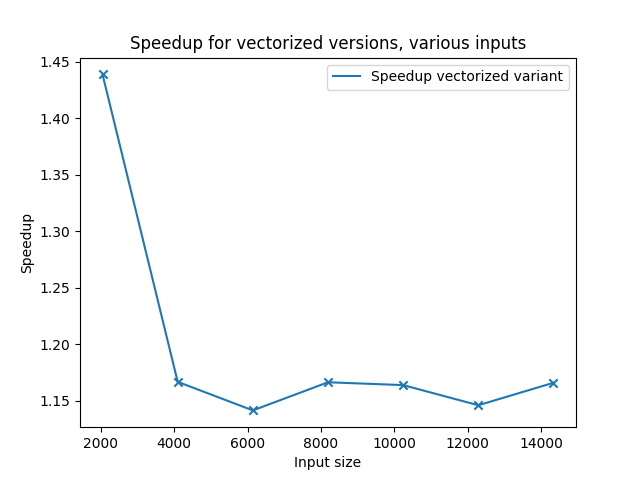
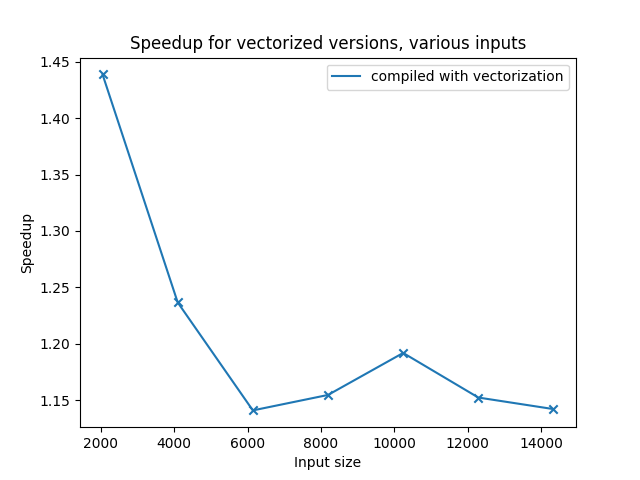
Added rest for week 7 task1

diff --git a/Assignment_07/task1/plot.py b/Assignment_07/task1/plot.py
@@ -6,4 +6,4 @@ spec.loader.exec_module(plot)
 OUT_FILE = 'output_task_1.dat'
 
 plot.plot_runtime_per_input_num(OUT_FILE, "Speedup for vectorized versions, various inputs", "speedup_task1", 2048, 2048, 'Reference', 'Speedup')
-plot.print_table(OUT_FILE)
+plot.print_table_for_var_inputs(OUT_FILE, 2048, 2048)

diff --git a/Assignment_07/assignment_07.md b/Assignment_07/assignment_07.md
@@ -1,2 +1,59 @@
 # Assignment 7
 by Tobias Hosp, Marcel Huber and Thomas Klotz
+
+## Task 1
+
+### Relevant Code
+
+```c
+void calculate_array(float* a, float* b, float* c, int size){
+    for(int run=0; run<REPETITIONS; ++run){
+        for(int i = 0; i<size; ++i){
+            a[i] += b[i] * c[i];
+        }
+    }
+}
+```
+
+Compiled with: 
+
+```makefile
+gcc -std=gnu11 -fopenmp -O1 -D TIMES -ftree-vectorize 
+```
+
+### Enable Vectorization
+
+To enable vectorization, the compiler flag ```-ftree-vectorize ``` was added to the usual gcc call.
+
+### Results
+
+![speedup_task1](task1/plots/speedup_task1.png)
+
+| Input size | compiled without vectorization | compiled with vectorization |
+| :--: | :--: | :--: |
+| 2048 | 2.4803 | 1.7238 |
+| 4096 | 5.793 | 4.6847 |
+| 6144 | 8.4365 | 7.3953 |
+| 8192 | 11.3653 | 9.8444 |
+| 10240 | 14.6792 | 12.3173 |
+| 12288 | 17.1076 | 14.8477 |
+| 14336 | 19.6561 | 17.2127 |
+
+### Obersvations
+
+- The result stays correct, independent of whether the code is compiled with vectorization or without.
+- Enabling vectorization results in a speedup of ~1.44, decreasing with bigger input sizes to ~1.2
+
+### Perf
+
+The only event with a relevant counter reading was ```SIMD_INST_RETIRED.VECTOR```, with a reading of **1.026.004.338**.
+This number is abould **half** of the number of iterations in the compute loop. 
+
+### Useful resources
+
+[Register sizes of different SIMD standards](https://twiki.cern.ch/twiki/bin/view/CMSPublic/WorkBookWritingAutovectorizableCode)
+
+[Stackoverflow for vectorization flag](https://stackoverflow.com/questions/51232100/gcc-auto-vectorization)
+
+
+
